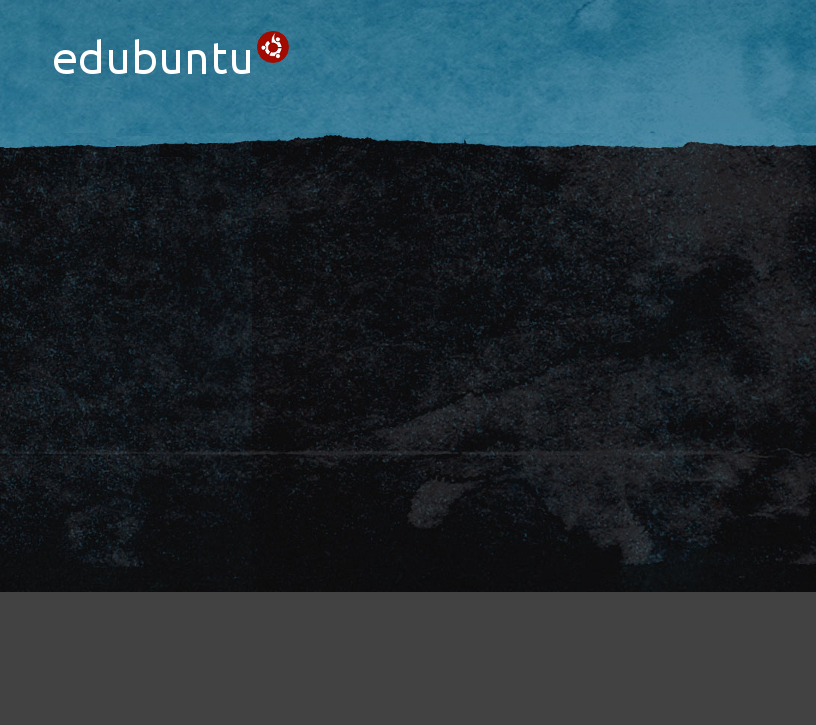
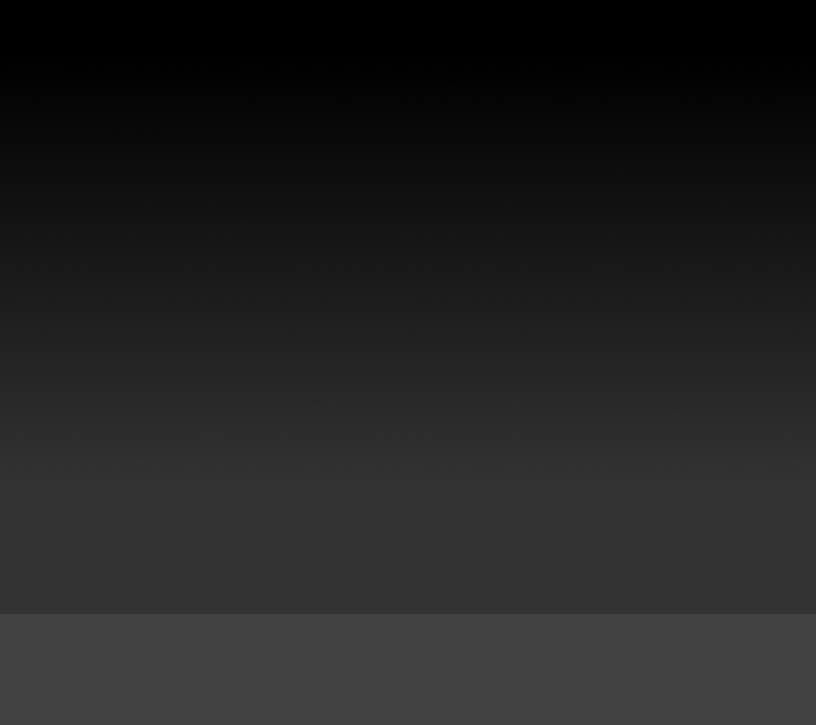
Started gutting out of old Edubuntu slides

diff --git a/slideshows/edubuntu/slides/index.html b/slideshows/edubuntu/slides/index.html
@@ -34,30 +34,30 @@
 		<div><a href="MY SLIDE" class="load"></a></div> -->
 		<!-- <div><a href="testing.html" class="load"></a></div> -->
 		<div><a href="welcome.html" class="load"></a></div>
-		<div><a href="gbrainy.html" class="load"></a></div>
+  		<!--<div><a href="gbrainy.html" class="load"></a></div> -->
 		<!-- <div><a href="nanny.html" class="load"></a></div> -->
 		<!-- <div><a href="sabayon.html" class="load"></a></div> -->
 		<!-- <div><a href="pessulus.html" class="load"></a></div> -->
 		<!-- <div><a href="calc.html" class="load"></a></div> -->
-		<div><a href="edubuntu-menu-editor.html" class="load"></a></div>
-		<div><a href="ltsp.html" class="load"></a></div>
-		<div><a href="epoptes.html" class="load"></a></div>		
-		<div><a href="kdeedu.html" class="load"></a></div> 
-		<div><a href="tux4kids.html" class="load"></a></div>
+		<!--<div><a href="edubuntu-menu-editor.html" class="load"></a></div>i-->
+		<!--<div><a href="ltsp.html" class="load"></a></div>-->
+		<!--<div><a href="epoptes.html" class="load"></a></div>-->
+                <!--<div><a href="kdeedu.html" class="load"></a></div> -->
+		<!--<div><a href="tux4kids.html" class="load"></a></div>-->
 		<!--<div><a href="geogebra.html" class="load"></a></div> -->
 		<!-- <div><a href="freemind.html" class="load"></a></div> -->
-		<div><a href="librecad.html" class="load"></a></div>
-		<div><a href="calibre.html" class="load"></a></div>
-		<div><a href="pencil.html" class="load"></a></div>
-		<div><a href="desktop-software.html" class="load"></a></div>
-		<div><a href="arkose.html" class="load"></a></div>
-		<div><a href="empathy.html" class="load"></a></div>
-		<div><a href="accessibility.html" class="load"></a></div>
-		<div><a href="ubuntuone.html" class="load"></a></div>
-		<div><a href="installing-software.html" class="load"></a></div>
-		<div><a href="testdrive.html" class="load"></a></div>
-		<div><a href="underthehood.html" class="load"></a></div>
-		<div><a href="documentation.html" class="load"></a></div>
+		<!--<div><a href="librecad.html" class="load"></a></div>-->
+		<!--<div><a href="calibre.html" class="load"></a></div>-->
+		<!--<div><a href="pencil.html" class="load"></a></div>-->
+		<!--<div><a href="desktop-software.html" class="load"></a></div>-->
+		<!--<div><a href="arkose.html" class="load"></a></div>-->
+		<!--<div><a href="empathy.html" class="load"></a></div>-->
+		<!--<div><a href="accessibility.html" class="load"></a></div>-->
+		<!--<div><a href="ubuntuone.html" class="load"></a></div>-->
+		<!--<div><a href="installing-software.html" class="load"></a></div>-->
+		<!--<div><a href="testdrive.html" class="load"></a></div>-->
+		<!--<div><a href="underthehood.html" class="load"></a></div>-->
+		<!--<div><a href="documentation.html" class="load"></a></div>-->
 	</div>
 </div>
 

diff --git a/slideshows/edubuntu/slides/welcome.html b/slideshows/edubuntu/slides/welcome.html
@@ -1,14 +1,23 @@
-<div class="header"><h1 class="title">Welcome</h1></div>
+<h1 class="welcometitle" style="text-align: center;">Welcome</h1>
 
 <div class="main">
 
 <div class="content wrap-top"><ul>
-	<li>Thank you for choosing Edubuntu 12.10.</li>
-	<li>This release brings updates, bug fixes and new software. Please refer to the release notes on our website for the most up to date information.</li>
-	<li>Whether you're new to Edubuntu or a long-time user, we're sure there is something you will enjoy. While Edubuntu is installed, this slideshow will show you around.</li>
+
+<p style="text-align: justify;">Welcome to what will eventually become Edubuntu 13.04.
+This release is in an alpha state and you can expect to find some rather large problems
+or unfinished parts. Use only for testing purposes and entirely at your own risk.
+Back up all data before trying it out and do not use in production.</p>
+
+<br /> <br /> <br />
+
+<p style="text-align: center;"><b>Thank you for testing, we appreciate your feedback!</b></p>
+
+
 </ul>
-<p class="footer">Edubuntu is designed to be easy. Feel free to explore!</p></div>
+
+<!-- <p class="footer">Edubuntu is designed to be easy. Feel free to explore!</p></div> -->
 
 </div>
 
-<img class="icon exact" src="icons/edubuntu-logo.png" alt="" />
+<!-- <img class="icon exact" src="icons/edubuntu-logo.png" alt="" /> -->

diff --git a/slideshows/edubuntu/slides/welcome-old.html b/slideshows/edubuntu/slides/welcome-old.html
@@ -1,0 +1,14 @@
+<div class="header"><h1 class="title">Welcome</h1></div>
+
+<div class="main">
+
+<div class="content wrap-top"><ul>
+	<li>Thank you for choosing Edubuntu 12.10.</li>
+	<li>This release brings updates, bug fixes and new software. Please refer to the release notes on our website for the most up to date information.</li>
+	<li>Whether you're new to Edubuntu or a long-time user, we're sure there is something you will enjoy. While Edubuntu is installed, this slideshow will show you around.</li>
+</ul>
+<p class="footer">Edubuntu is designed to be easy. Feel free to explore!</p></div>
+
+</div>
+
+<img class="icon exact" src="icons/edubuntu-logo.png" alt="" />

diff --git a/slideshows/edubuntu/slides/link/base.css b/slideshows/edubuntu/slides/link/base.css
@@ -107,7 +107,19 @@ a {
 	margin:0px;
 }
 .title:first-line {
-	font-size:28px;
+	font-size:38px;
+}
+
+.welcometitle {
+        width: 100%;
+        text-align: center;
+        top: 25px;
+        position: absolute;
+	letter-spacing:-2px;
+}
+
+.welcometitle:first-line {
+	font-size:60px;
 }
 
 /*
@@ -141,7 +153,7 @@ appear, spaced appropriately from .title.
 .main {
 	position:absolute;
 	
-	top:180px;
+	top:140px;
 	left:0px;
 	
 	width:100%;
@@ -267,6 +279,6 @@ img {
 	padding-right:0px;
 	padding-left:60px;
 }
-.rtl .content .footer {
+/*.rtl .content .footer {
     text-align:left;
-}
+} */
